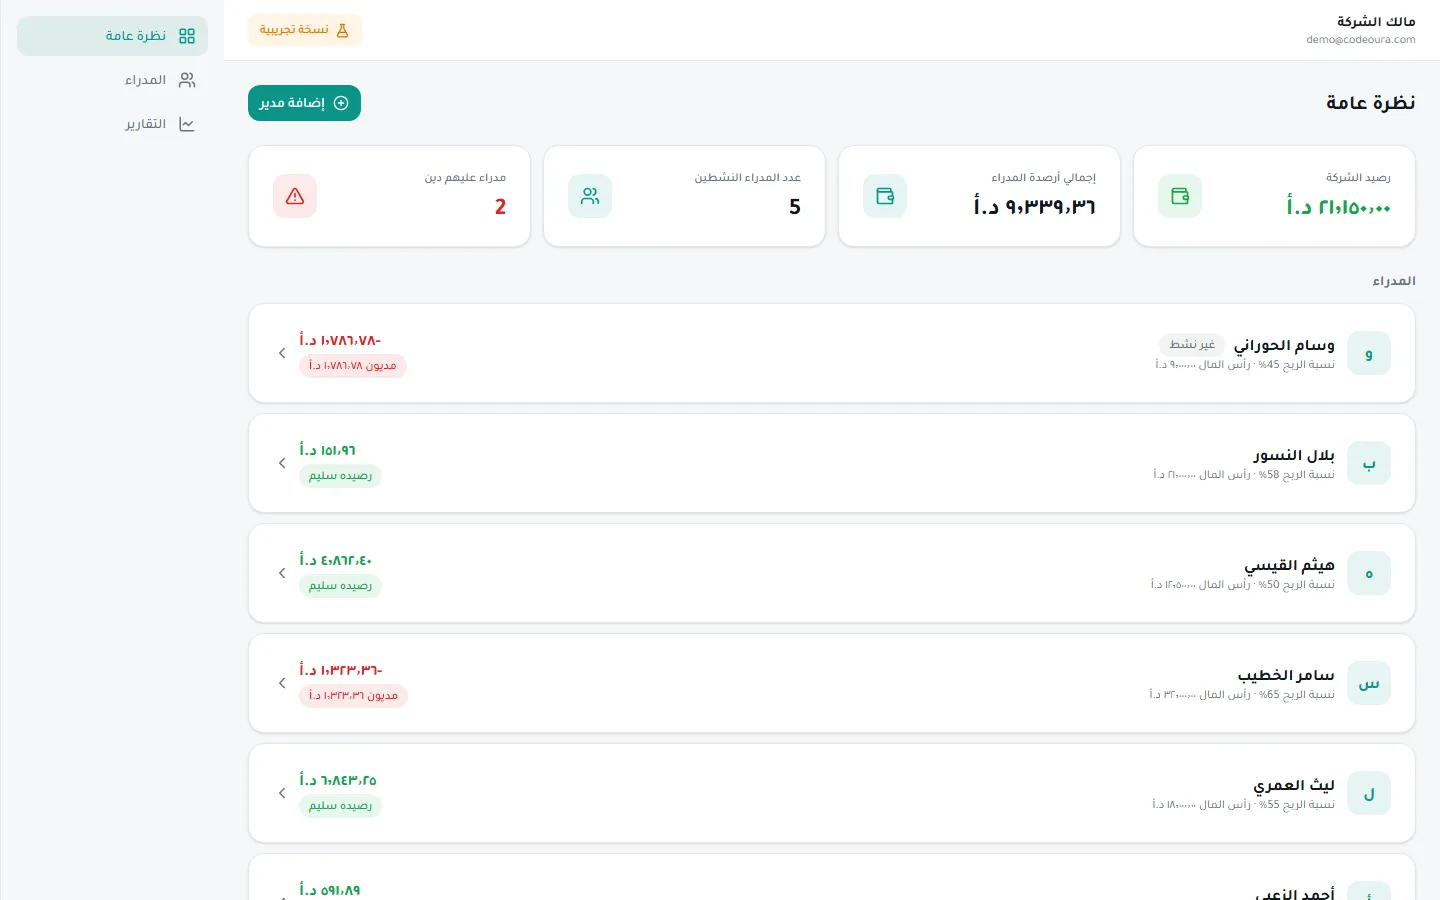
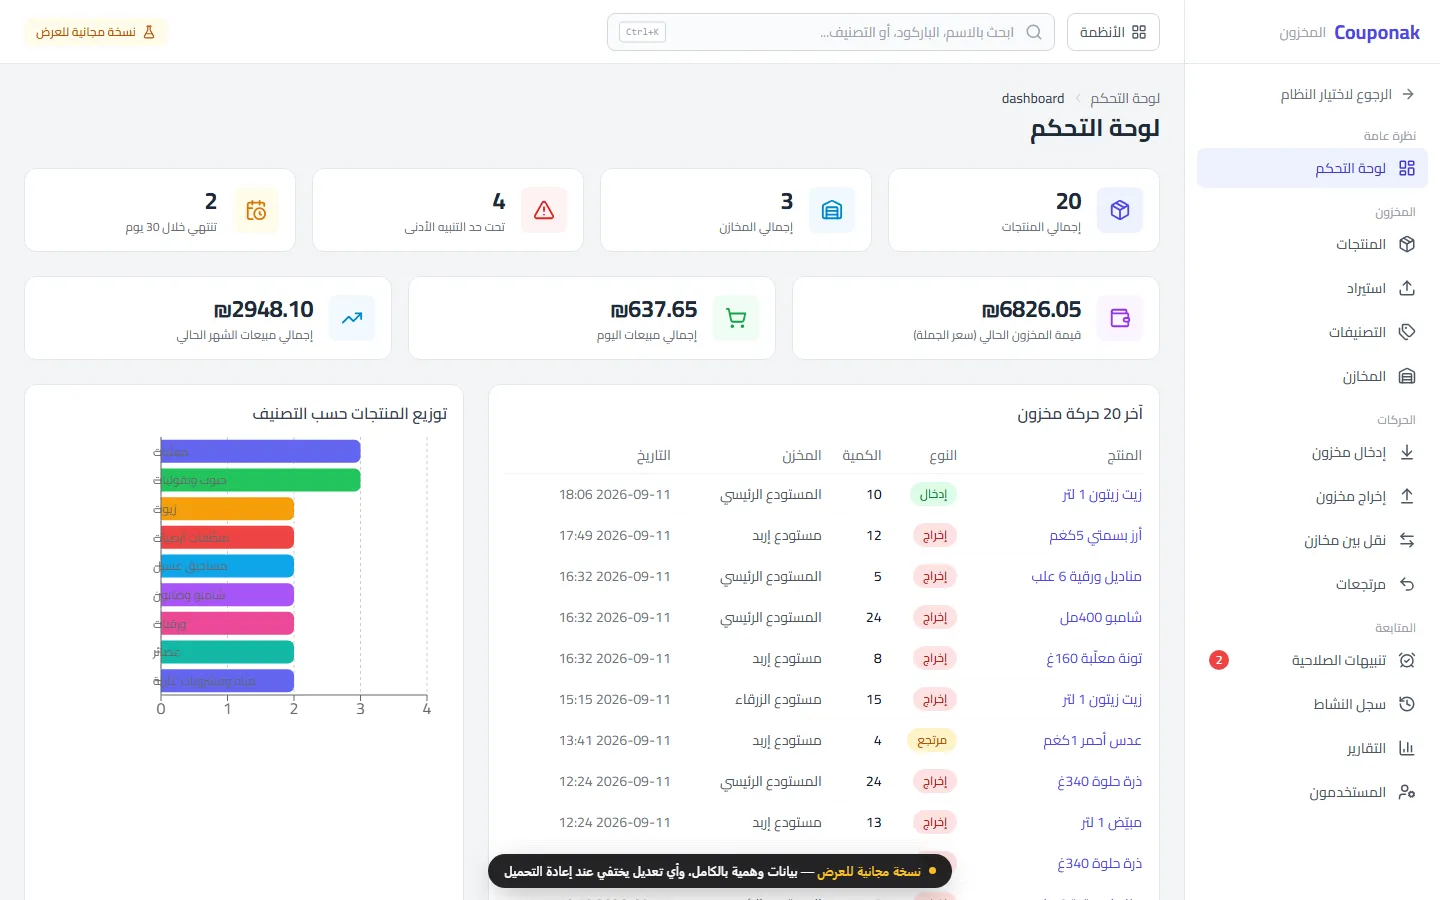
Link the remaining demos and their covers
Six of the seven projects now open a running demo from the portfolio, each
card carrying a real screenshot of the product rather than a name on a
colour. Aber keeps the generated gradient: it is a Turborepo whose web app
shares a package with a React Native client, and it has no demo yet.

Where a product has more than one surface, the link points at the one that
shows the most: Couponak opens the warehouse system rather than the smaller
manager console, and Firuze opens the operations system rather than the
guest menu.

diff --git a/src/content/projects.ts b/src/content/projects.ts
@@ -57,8 +57,8 @@ export const projects: Project[] = [
     cover: { from: 'oklch(0.7 0.15 165)', to: 'oklch(0.55 0.13 210)', image: '/work/couponak.webp' },
     featured: true,
     demo: {
-      href: 'https://ysweety666-crypto.github.io/codeoura-demos/couponak-manager/owner/',
-      surface: { en: 'Owner console', ar: 'لوحة المالك' },
+      href: 'https://ysweety666-crypto.github.io/codeoura-demos/couponak-inventory/dashboard/',
+      surface: { en: 'Warehouse system', ar: 'نظام المستودعات' },
     },
     caseStudy: {
       challenge: {
@@ -124,8 +124,12 @@ export const projects: Project[] = [
     services: ['web', 'saas'],
     platforms: ['web', 'admin'],
     stack: ['Next.js', 'TypeScript', 'PostgreSQL', 'Tailwind CSS'],
-    cover: { from: 'oklch(0.72 0.145 230)', to: 'oklch(0.5 0.15 265)' },
+    cover: { from: 'oklch(0.72 0.145 230)', to: 'oklch(0.5 0.15 265)', image: '/work/babunec.webp' },
     featured: true,
+    demo: {
+      href: 'https://ysweety666-crypto.github.io/codeoura-demos/babunec/tr/dashboard/',
+      surface: { en: 'Agency back office', ar: 'مكتب الوكالة الخلفي' },
+    },
     caseStudy: {
       challenge: {
         en: 'Seasonal pricing and finite seat inventory made naive booking flows prone to double-selling under concurrent load.',
@@ -157,11 +161,11 @@ export const projects: Project[] = [
     services: ['web', 'saas'],
     platforms: ['web', 'admin'],
     stack: ['Next.js', 'TypeScript', 'PostgreSQL', 'Tailwind CSS'],
-    cover: { from: 'oklch(0.72 0.13 195)', to: 'oklch(0.58 0.12 250)', image: '/work/firuze.webp' },
+    cover: { from: 'oklch(0.72 0.13 195)', to: 'oklch(0.58 0.12 250)', image: '/work/firuze-system.webp' },
     featured: true,
     demo: {
-      href: 'https://ysweety666-crypto.github.io/codeoura-demos/firuze-menu/',
-      surface: { en: 'Guest-facing menu', ar: 'منيو الزبون' },
+      href: 'https://ysweety666-crypto.github.io/codeoura-demos/firuze-system/',
+      surface: { en: 'Operations system', ar: 'نظام التشغيل' },
     },
     caseStudy: {
       challenge: {
@@ -194,8 +198,12 @@ export const projects: Project[] = [
     services: ['web', 'cloud', 'saas'],
     platforms: ['web', 'admin'],
     stack: ['Next.js', 'TypeScript', 'PostgreSQL', 'Prisma', 'Supabase Storage'],
-    cover: { from: 'oklch(0.7 0.14 190)', to: 'oklch(0.5 0.12 240)' },
+    cover: { from: 'oklch(0.7 0.14 190)', to: 'oklch(0.5 0.12 240)', image: '/work/cleveland-medicals.webp' },
     featured: false,
+    demo: {
+      href: 'https://ysweety666-crypto.github.io/codeoura-demos/cleveland/ar/',
+      surface: { en: 'Patient-facing platform', ar: 'واجهة المرضى' },
+    },
     caseStudy: {
       challenge: {
         en: 'Medical files and receipts are sensitive, often large, and must stay retrievable for years without bloating the application database.',
